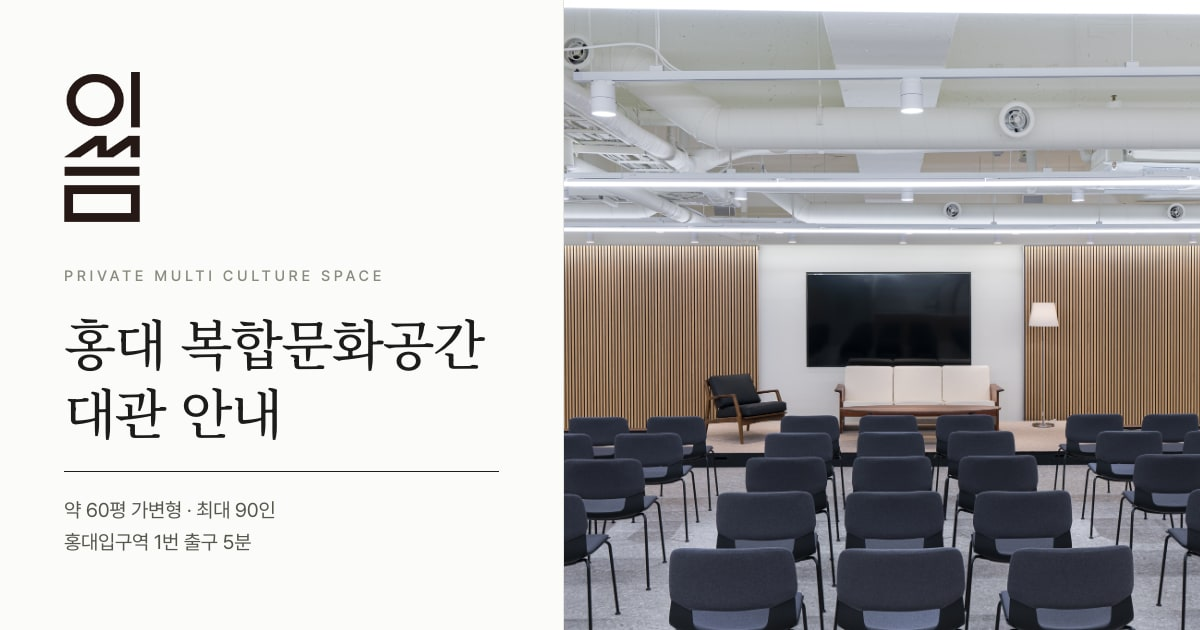
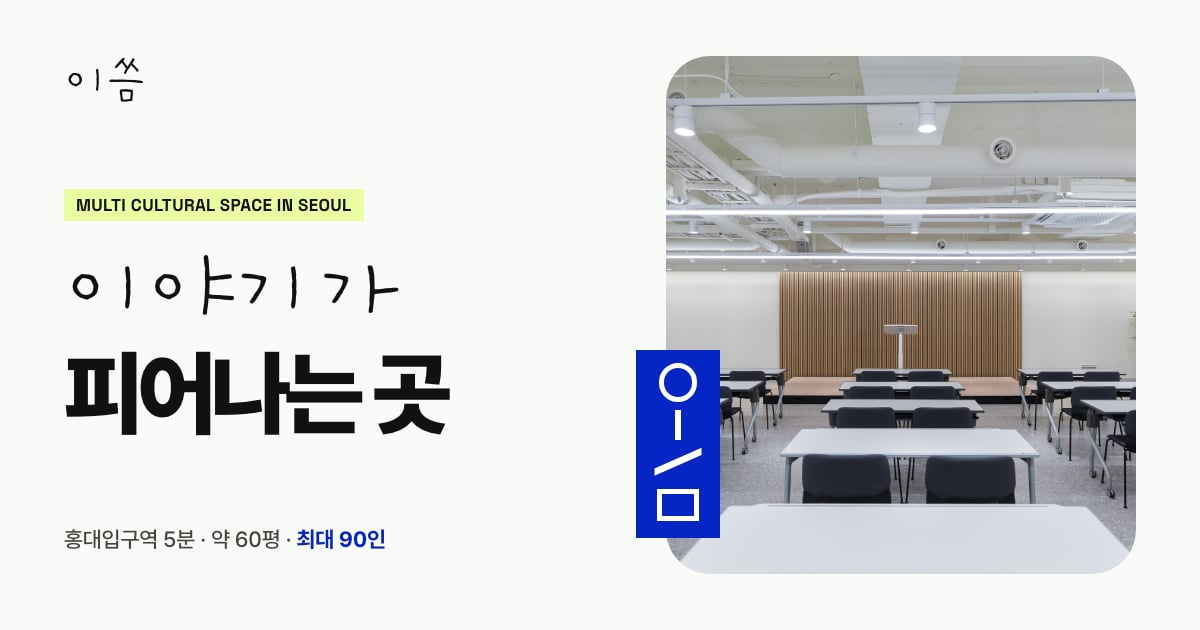
Replace the share image with the new brand in Korean and English

diff --git a/brand/og/og.html b/brand/og/og.html
@@ -1,0 +1,63 @@
+<!doctype html>
+<!--
+  Share preview (Open Graph) image, 1200×630. Rendered to public/og-image.jpg
+  (Korean) and public/og-image-en.jpg (English): open with ?lang=en for English.
+  Regenerate:
+    python3 -m http.server 8792 --directory .   (from the repo root)
+    Chrome --headless=new --window-size=1200,630 --screenshot=og.png http://localhost:8792/brand/og/og.html[?lang=en]
+  then convert to JPEG (sharp, quality 85). Facts here mirror src/data/facts.ts.
+-->
+<html lang="ko">
+<head>
+<meta charset="utf-8">
+<link rel="stylesheet" href="https://cdn.jsdelivr.net/gh/orioncactus/pretendard@v1.3.9/dist/web/static/pretendard.css">
+<link href="https://fonts.googleapis.com/css2?family=Gaegu:wght@300&family=Space+Grotesk:wght@500;700&display=swap" rel="stylesheet">
+<style>
+  html, body { margin: 0; }
+  body { width: 1200px; height: 630px; overflow: hidden; background: #fafaf8; color: #111; font-family: Pretendard, sans-serif; -webkit-font-smoothing: antialiased; }
+  .og { position: relative; display: grid; grid-template-columns: 1fr 470px; gap: 56px; height: 100%; box-sizing: border-box; padding: 56px 64px; }
+  .copy { display: grid; align-content: space-between; }
+  .logo { font: 300 54px/1 'Gaegu', cursive; letter-spacing: -0.08em; }
+  .hl { justify-self: start; display: inline-block; background: #eafda1; font: 700 17px 'Space Grotesk', sans-serif; letter-spacing: .02em; padding: 5px 12px; margin-bottom: 26px; }
+  h1 { margin: 0; font-size: 92px; font-weight: 900; letter-spacing: -0.065em; line-height: 1.04; }
+  h1 .hand { display: block; font: 300 1.12em/0.92 'Gaegu', cursive; letter-spacing: -0.01em; margin-bottom: .04em; }
+  :lang(en) h1 { font-size: 74px; letter-spacing: -0.035em; }
+  .facts { font-size: 22px; font-weight: 500; color: #44443e; letter-spacing: -0.01em; }
+  .facts b { color: #0526c5; }
+  .photo { position: relative; border-radius: 44px; overflow: hidden; background: #eeeeea; }
+  .photo img { width: 100%; height: 100%; object-fit: cover; display: block; }
+  .emb { position: absolute; left: calc(100% - 470px - 64px - 30px); bottom: 92px; width: 84px; aspect-ratio: 232/520; background: #0526c5; --s: 5.9px; }
+  .emb i { position: absolute; display: block; }
+  .emb .o { left: 27%; top: 7%; width: 46%; aspect-ratio: 1; border-radius: 50%; border: var(--s) solid #fff; box-sizing: border-box; }
+  .emb .bar { left: 46.5%; top: 32%; width: var(--s); height: 16%; background: #fff; }
+  .emb .sl { left: 22%; top: 52%; width: 56%; height: 15%; background: #fff; clip-path: polygon(0 74%, 100% 0, 100% 26%, 0 100%); }
+  .emb .sq { left: 25%; top: 74%; width: 50%; height: 17%; border: var(--s) solid #fff; box-sizing: border-box; }
+</style>
+</head>
+<body>
+<div class="og">
+  <div class="copy">
+    <div class="logo" data-t="logo">이씀</div>
+    <div>
+      <p class="hl">MULTI CULTURAL SPACE IN SEOUL</p>
+      <h1><span class="hand" data-t="hand">이야기가</span><span data-t="rest">피어나는 곳</span></h1>
+    </div>
+    <p class="facts" data-t="facts">홍대입구역 5분 · 약 60평 · <b>최대 90인</b></p>
+  </div>
+  <div class="photo"><img src="../../src/assets/isseum_main-hall_01.jpg" alt=""></div>
+  <span class="emb"><i class="o"></i><i class="bar"></i><i class="sl"></i><i class="sq"></i></span>
+</div>
+<script>
+  if (new URLSearchParams(location.search).get('lang') === 'en') {
+    document.documentElement.lang = 'en';
+    const t = {
+      logo: 'ISSEUM',
+      hand: 'A place where',
+      rest: 'stories bloom',
+      facts: 'Near Hongik Univ. Station · 198㎡ · <b>Up to 90 guests</b>',
+    };
+    document.querySelectorAll('[data-t]').forEach((el) => { el.innerHTML = t[el.dataset.t]; });
+  }
+</script>
+</body>
+</html>
